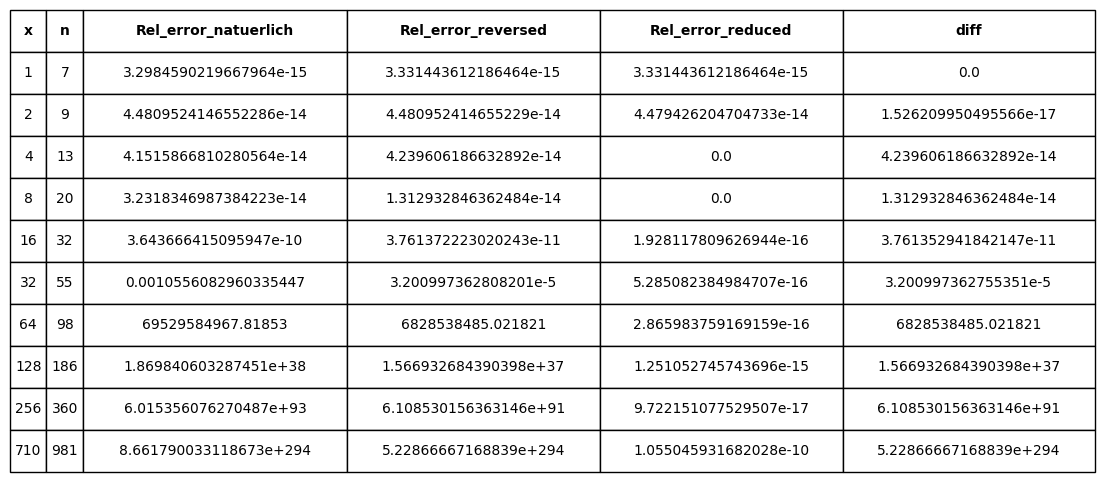
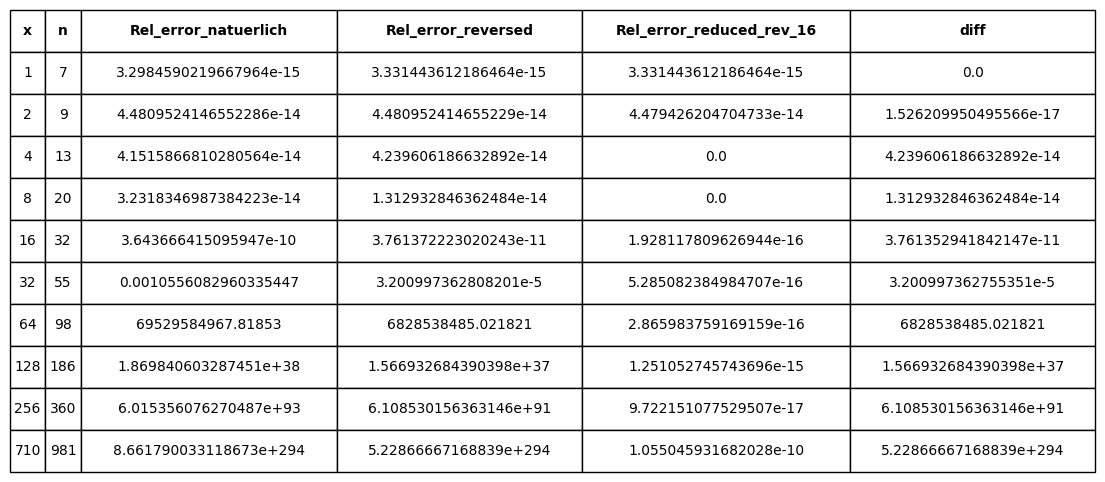
sinus precision case for 3.6.2

diff --git a/3_6_ArgRedukt.py b/3_6_ArgRedukt.py
@@ -33,7 +33,7 @@ if __name__ == "__main__":
     accuracy = 100*10e-16
     k_max = 8
 
-    precision = 25
+    precision = 16
     mp.dps = precision
 
     x_values = [2 ** k for k in range(k_max + 1)] + [710]
@@ -46,7 +46,7 @@ if __name__ == "__main__":
         x_red, res_multi = utils.arg_redukt(x, prec=precision)
         approx_value = res_multi*utils.sinTaylorReversed(x_red, n)
 
-        #exact_value = math.sin(x)
+        #approx_value = res_multi * mp.sin(x_red)
         exact_value = mp.sin(x)
         #print(exact_value, " --- ", mp_value )
         rel_error = abs((approx_value - exact_value) / exact_value)
@@ -61,6 +61,6 @@ if __name__ == "__main__":
     #calc diff of reversed summation and reduced reversed summation
     diff_rev = Rel_errors_rev - red_rel_error
 
-    headers = ['x', 'n', 'Rel_error_natuerlich', 'Rel_error_reversed', 'Rel_error_reduced', 'diff']
+    headers = ['x', 'n', 'Rel_error_natuerlich', 'Rel_error_reversed', 'Rel_error_reduced_rev_16', 'diff']
     int_cols = ['x', 'n']
     utils.plot_table(x_values, n_values, Rel_errors, Rel_errors_rev, red_rel_error, diff_rev, headers=headers, int_columns=int_cols, savefig=savefig, size = (14,6))
